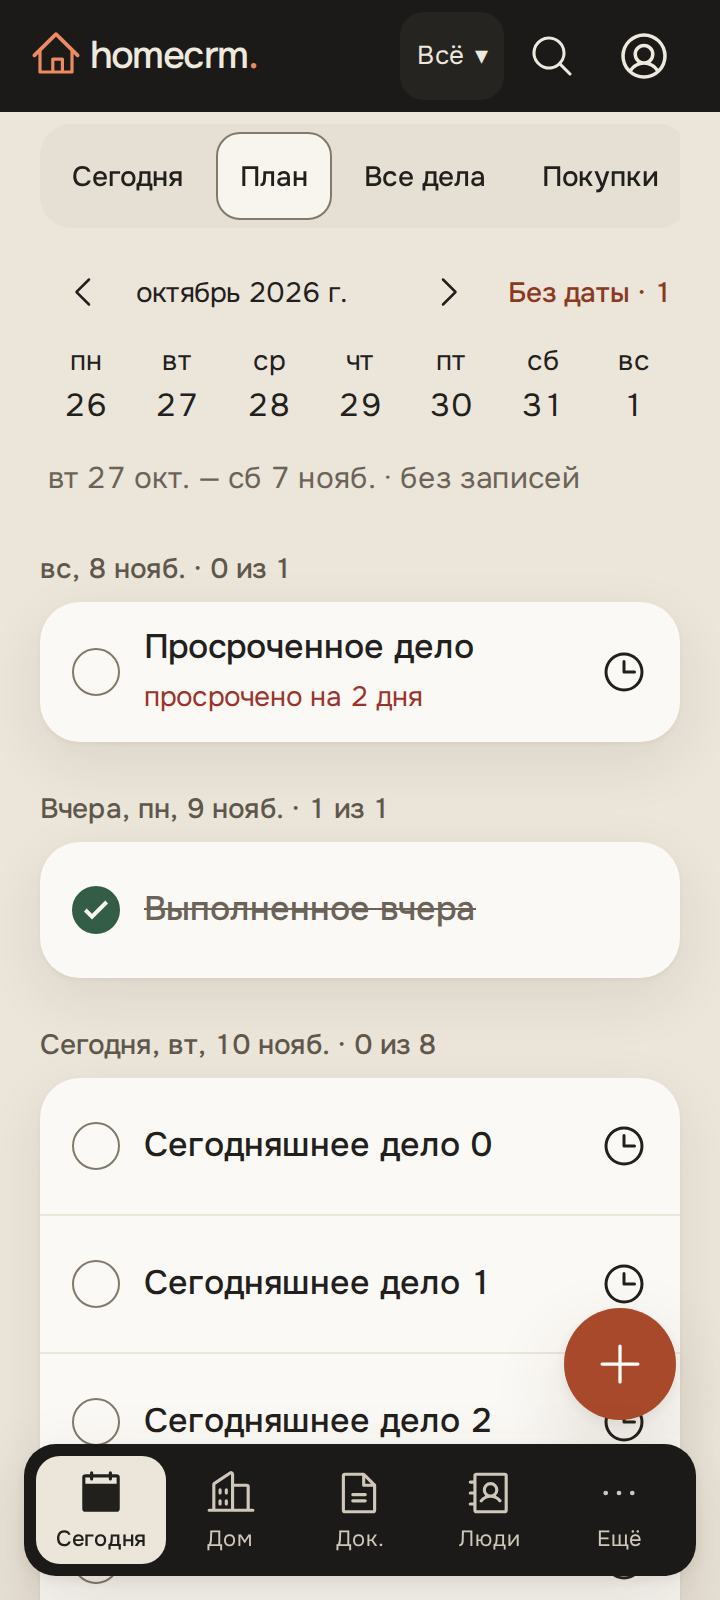
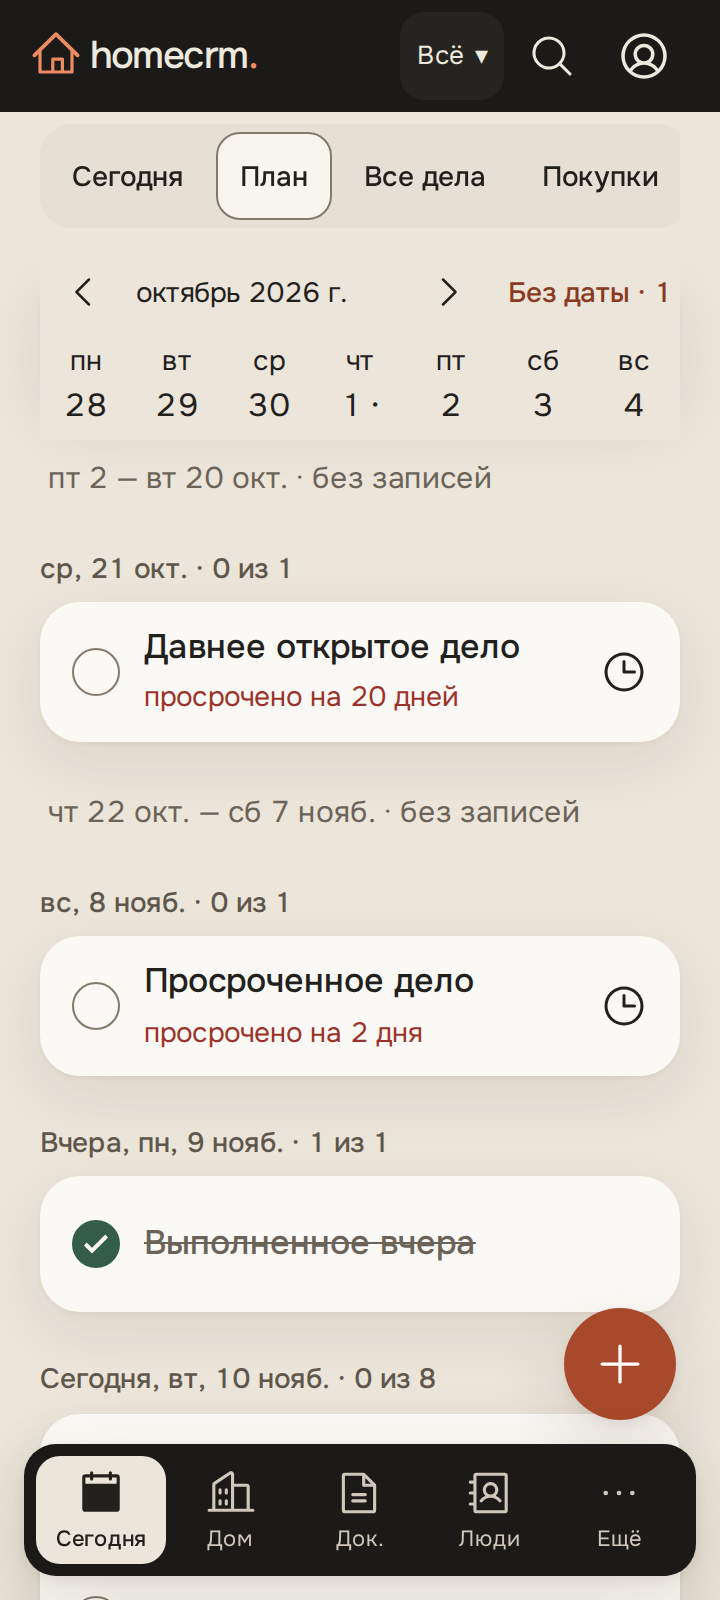
TASK-5: сохранить прокрутку при подгрузке прошлых дней

diff --git a/apps/web/src/tasks/PlanFeed.tsx b/apps/web/src/tasks/PlanFeed.tsx
@@ -78,7 +78,12 @@ export function PlanFeed({ house }: { house: string | null }) {
     const date = anchor?.dataset.planFrom;
     const top = anchor?.getBoundingClientRect().top;
     await query.fetchPreviousPage();
-    requestAnimationFrame(async () => {
+    if (date && top !== undefined) setPreserve({ date, top });
+  };
+  const [preserve, setPreserve] = useState<{ date: string; top: number } | null>(null);
+  useLayoutEffect(() => {
+    if (!preserve) return;
+    const frame = requestAnimationFrame(async () => {
       await Promise.allSettled(
         (list.current?.getAnimations({ subtree: true }) ?? []).map(
           (animation) => animation.finished,
@@ -88,13 +93,15 @@ export function PlanFeed({ house }: { house: string | null }) {
         ...(list.current?.querySelectorAll<HTMLElement>('[data-plan-from]') ?? []),
       ].find(
         (el) =>
-          date &&
-          (el.dataset.planFrom ?? '') <= date &&
-          (el.dataset.planUntil ?? el.dataset.planFrom ?? '') >= date,
+          preserve.date &&
+          (el.dataset.planFrom ?? '') <= preserve.date &&
+          (el.dataset.planUntil ?? el.dataset.planFrom ?? '') >= preserve.date,
       );
-      if (next && top !== undefined) window.scrollBy(0, next.getBoundingClientRect().top - top);
+      if (next) window.scrollBy(0, next.getBoundingClientRect().top - preserve.top);
+      setPreserve(null);
     });
-  };
+    return () => cancelAnimationFrame(frame);
+  }, [preserve]);
   const { scope } = useScope();
   const client = useQueryClient();
   const query = usePlan(house);
@@ -190,7 +197,8 @@ export function PlanFeed({ house }: { house: string | null }) {
         void query.fetchNextPage();
       }
     };
-    const onGesture = () => {
+    const onGesture = (event?: Event) => {
+      if (event instanceof WheelEvent && event.deltaY < 0) return;
       armed.current = true;
       load();
     };
@@ -293,11 +301,30 @@ export function PlanFeed({ house }: { house: string | null }) {
       )
         void prepend();
     };
-    window.addEventListener('wheel', up, { passive: true });
-    window.addEventListener('touchmove', up, { passive: true });
+    const wheel = (event: WheelEvent) => {
+      if (event.deltaY < 0) up();
+    };
+    let touchY: number | undefined;
+    const start = (event: TouchEvent) => {
+      touchY = event.touches[0]?.clientY;
+    };
+    const touch = (event: TouchEvent) => {
+      const y = event.touches[0]?.clientY;
+      if (y !== undefined && touchY !== undefined && y > touchY) up();
+      touchY = y;
+    };
+    const key = (event: KeyboardEvent) => {
+      if (['PageUp', 'Home', 'ArrowUp'].includes(event.key)) up();
+    };
+    window.addEventListener('wheel', wheel, { passive: true });
+    window.addEventListener('touchstart', start, { passive: true });
+    window.addEventListener('touchmove', touch, { passive: true });
+    window.addEventListener('keydown', key);
     return () => {
-      window.removeEventListener('wheel', up);
-      window.removeEventListener('touchmove', up);
+      window.removeEventListener('wheel', wheel);
+      window.removeEventListener('touchstart', start);
+      window.removeEventListener('touchmove', touch);
+      window.removeEventListener('keydown', key);
     };
   });
   return (
@@ -341,7 +368,7 @@ export function PlanFeed({ house }: { house: string | null }) {
         >
           {hasDated
             ? groups.map((group) =>
-                group.tasks.length ? (
+                group.tasks.length || group.from === today ? (
                   <section
                     className="section plan-day"
                     key={group.from}
@@ -355,7 +382,11 @@ export function PlanFeed({ house }: { house: string | null }) {
                         ? ` · ${group.tasks.filter((t) => t.status === 'done').length} из ${group.tasks.length}`
                         : ''}
                     </h2>
-                    {rows(group.tasks, `Дела ${group.from}`)}
+                    {group.tasks.length ? (
+                      rows(group.tasks, `Дела ${group.from}`)
+                    ) : (
+                      <p className="muted plan-empty-days">Свободно</p>
+                    )}
                   </section>
                 ) : (
                   <p

diff --git a/apps/web/src/tasks/PlanWeek.tsx b/apps/web/src/tasks/PlanWeek.tsx
@@ -44,7 +44,11 @@ export function PlanWeek({
       const top = document.querySelector('.plan-week')?.getBoundingClientRect().bottom ?? 200;
       const nodes = [...document.querySelectorAll<HTMLElement>('[data-plan-from]')];
       const node = nodes.find((el) => el.getBoundingClientRect().bottom > top);
-      if (node?.dataset.planFrom) setDay(node.dataset.planFrom);
+      if (node?.dataset.planFrom) {
+        const from = node.dataset.planFrom;
+        const until = node.dataset.planUntil ?? from;
+        setDay((current) => (current >= from && current <= until ? current : from));
+      }
     };
     window.addEventListener('scroll', track, { passive: true });
     return () => window.removeEventListener('scroll', track);
